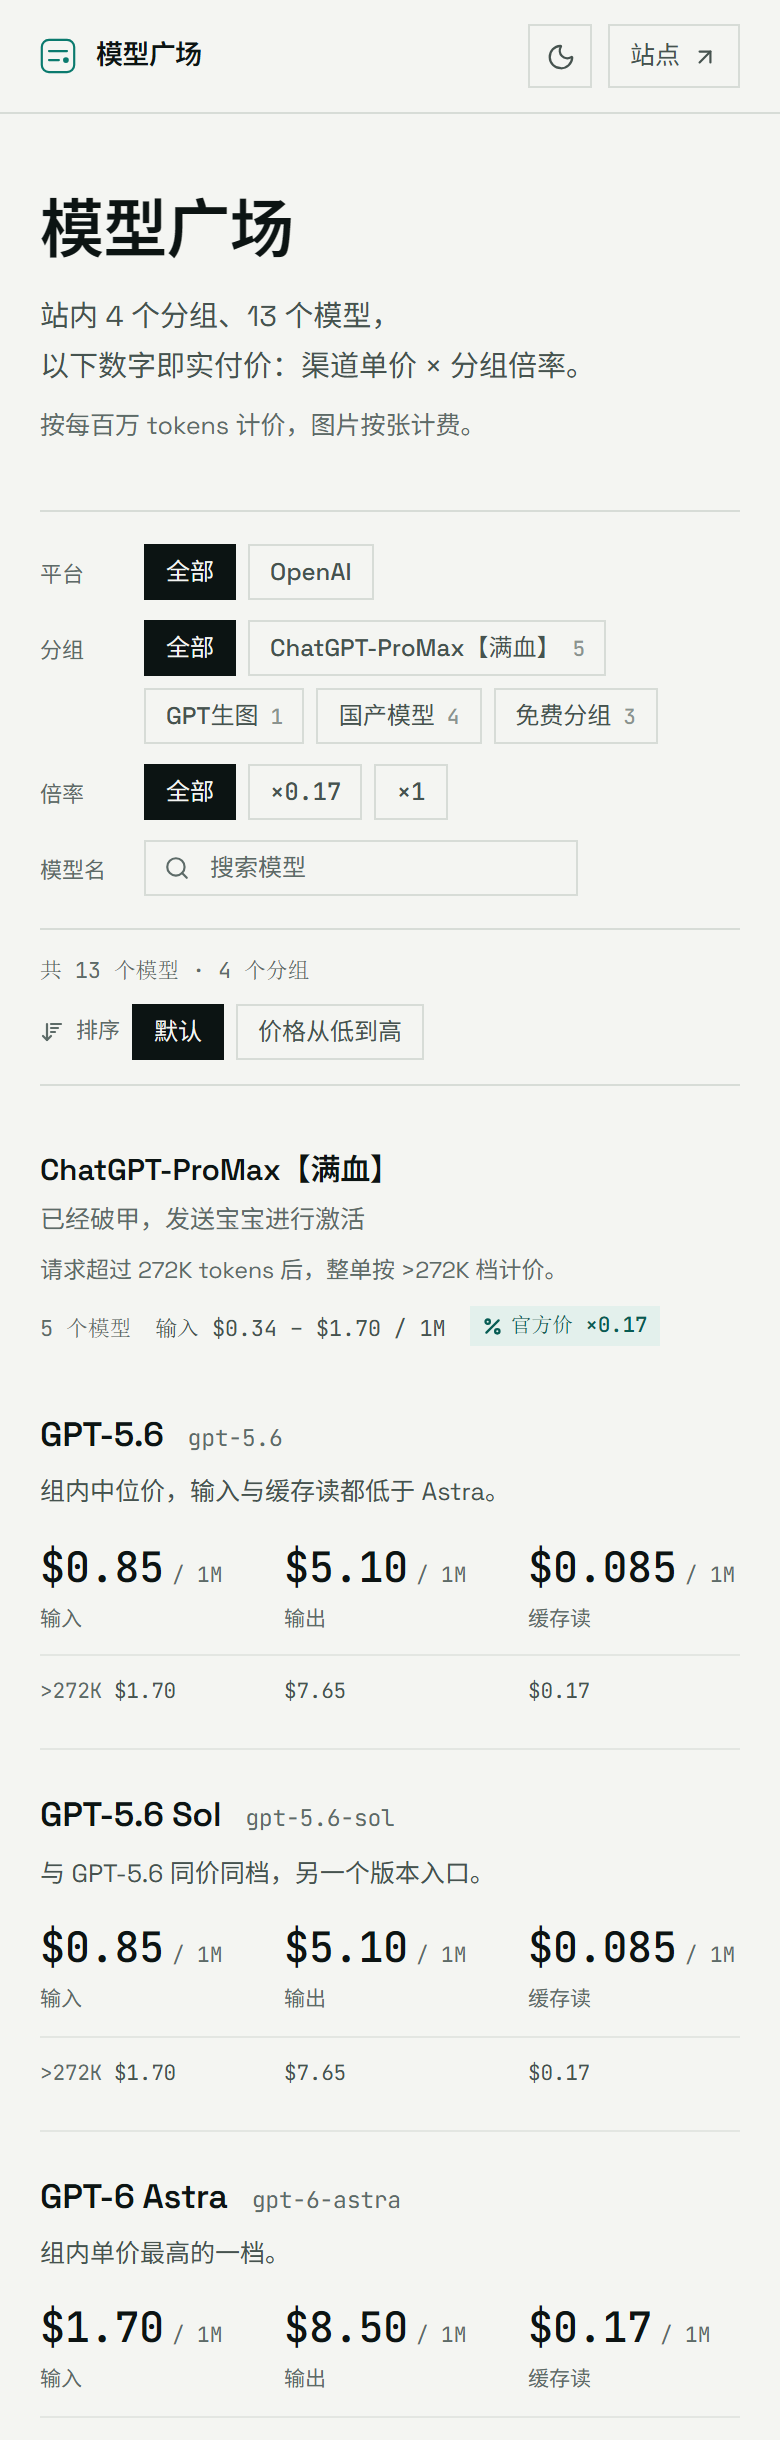
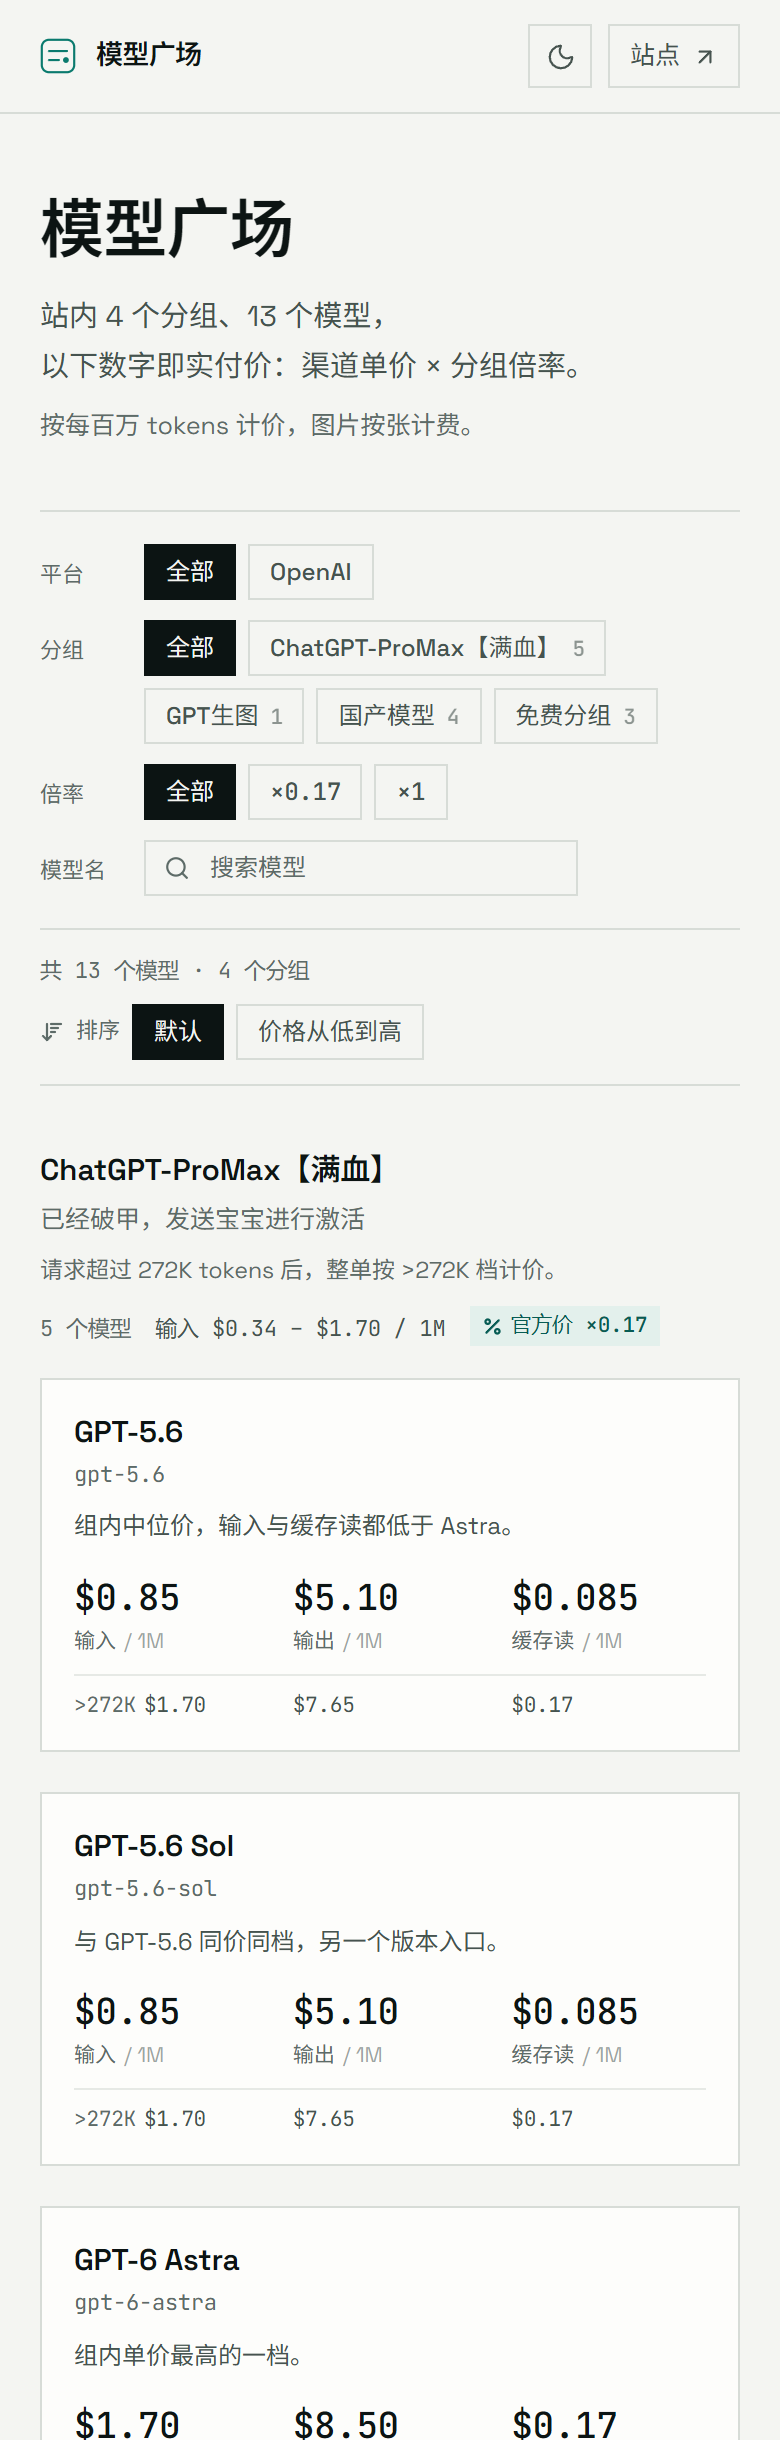
feat(plaza): set each model as a card, three to a row
The list read as one column of rows: with thirteen models a reader
scanning for the cheapest output price had to walk the whole page. Cards
put three models side by side, so a row can be compared without moving.

Each group keeps its own grid, so a group whose model count is not a
multiple of three leaves empty cells at the end of its last row. Letting
cards flow across group boundaries would fill them, but it would also put
two groups on one row, and the rate badge in the header — which applies to
a whole group — would no longer be clear about which cards it covers.

The card is a sheet of the same stock, not a floating panel: square, 1px
rule, no shadow, no gradient. The price block is pushed to the bottom so
that in a row the figures share one baseline and the tier rules land at
one height.

The unit moves from the figure to the label line (`输入 / 1M`, not
`$0.85 / 1M`): a column on a 336px card is only ~93px, and `$0.085 / 1M`
does not fit. The free group gains the same unit, which it had lost once
the unit left the figure.

Figures drop from 26px to 18px (names 15px): at three to a row the old
size overflowed the column, and the name now has to carry its own weight
as the thing you look for first.

diff --git a/src/components/ModelCard.tsx b/src/components/ModelCard.tsx
@@ -1,0 +1,92 @@
+import type { PriceBlock } from '../lib/pricing'
+import { priceBlock } from '../lib/pricing'
+import type { PlazaGroup, PlazaModel } from '../data/catalog'
+
+/**
+ * The figures of one model: numbers on the first line, their labels underneath,
+ * the long-context tier on a third line behind a hairline. All three lines share
+ * one column template, so a figure always sits above its own label and the tier
+ * figure under the column it belongs to.
+ *
+ * The unit rides with the label rather than the figure (`输入 / 1M`, not
+ * `$0.85 / 1M`). On a 336px card a column is only ~93px, and `$0.085 / 1M`
+ * does not fit in one; moving it down also leaves the top line purely numeric,
+ * which is the line the eye scans when comparing cards.
+ */
+function PriceGrid({ block, free }: { block: PriceBlock; free: boolean }) {
+  const { cells, subLabel, subs } = block
+  if (cells.length === 0) return null
+
+  const columns = { gridTemplateColumns: `repeat(${cells.length}, minmax(0, 1fr))` }
+
+  return (
+    <div>
+      <div className="grid gap-x-3 gap-y-1.5" style={columns}>
+        {cells.map((cell) => (
+          <div
+            key={cell.label}
+            className={`num text-[18px] leading-none font-medium xl:text-[19px] ${
+              free ? 'text-accent-ink' : 'text-ink'
+            }`}
+          >
+            {cell.value}
+          </div>
+        ))}
+
+        {cells.map((cell) => (
+          <div
+            key={`${cell.label}-label`}
+            className="text-[10.5px] leading-tight whitespace-nowrap text-ink-3"
+          >
+            {cell.label}
+            {cell.unit ? <span className="ml-1 text-ink-3/60">{cell.unit}</span> : null}
+          </div>
+        ))}
+      </div>
+
+      {subs ? (
+        <div className="mt-2.5 grid gap-x-3 border-t border-rule/60 pt-2" style={columns}>
+          {subs.map((value, index) => (
+            <div
+              key={`sub-${index}`}
+              className="num text-[10.5px] leading-tight whitespace-nowrap text-ink-2"
+            >
+              {index === 0 && subLabel ? <span className="mr-1 text-ink-3">{subLabel}</span> : null}
+              {value}
+            </div>
+          ))}
+        </div>
+      ) : null}
+    </div>
+  )
+}
+
+/**
+ * One model as a card. The card is a sheet of paper, not a floating panel:
+ * square, 1px rule, no shadow and no gradient — the same hairline that divides
+ * rows elsewhere now draws the frame.
+ *
+ * The price block is pushed to the bottom (`mt-auto`) so that in a row of cards
+ * the figures share one baseline and the tier rules land at one height: the row
+ * reads as a single ruled table rather than as five unrelated boxes.
+ */
+export function ModelCard({ group, model }: { group: PlazaGroup; model: PlazaModel }) {
+  const block = priceBlock(model, group.rateMultiplier, group.kind)
+
+  return (
+    <article className="flex h-full flex-col border border-rule bg-sheet p-4 transition-colors hover:border-rule-strong">
+      <h3 className="text-[15px] leading-snug font-semibold tracking-[-0.01em] text-ink">
+        {model.label}
+      </h3>
+      <p className="num mt-0.5 text-[11px] leading-relaxed break-all text-ink-3">{model.name}</p>
+
+      {model.note ? (
+        <p className="mt-2 text-[12px] leading-relaxed text-ink-2">{model.note}</p>
+      ) : null}
+
+      <div className="mt-auto pt-4">
+        <PriceGrid block={block} free={group.kind === 'free'} />
+      </div>
+    </article>
+  )
+}

diff --git a/src/components/GroupSection.tsx b/src/components/GroupSection.tsx
@@ -1,7 +1,7 @@
 import { Percent } from 'lucide-react'
 import type { PlazaGroup } from '../data/catalog'
 import { priceRange, rateLabel } from '../lib/pricing'
-import { ModelBlock } from './ModelBlock'
+import { ModelCard } from './ModelCard'
 
 /**
  * One group of models. The header sticks under the top bar from small screens
@@ -10,13 +10,20 @@ import { ModelBlock } from './ModelBlock'
  * carries answers "what does this group cost" without scrolling back up. On a
  * phone the description wraps tall enough that a pinned header would eat the
  * viewport, so it scrolls normally there.
+ *
+ * The models below it are cards, three to a row on a desktop. Each group keeps
+ * its own grid, so a group whose model count is not a multiple of three leaves
+ * empty cells at the end of its last row. Letting cards flow across group
+ * boundaries would fill those cells, but it would also put two groups on one
+ * row, and the rate badge in the header — which applies to a whole group —
+ * would no longer be clear about which cards it covers.
  */
 export function GroupSection({ group }: { group: PlazaGroup }) {
   const showRate = group.rateVerified && group.rateMultiplier !== 1
 
   return (
     <section id={`g${group.id}`} className="border-t border-rule">
-      <header className="flex flex-wrap items-baseline justify-between gap-x-6 gap-y-2 bg-paper pt-8 pb-3 sm:sticky sm:top-14 sm:z-10">
+      <header className="flex flex-wrap items-baseline justify-between gap-x-6 gap-y-2 bg-paper pt-8 pb-4 sm:sticky sm:top-14 sm:z-10">
         <div className="min-w-0">
           <h2 className="text-[15px] font-semibold tracking-[-0.006em] text-ink">{group.name}</h2>
           {group.description ? (
@@ -43,9 +50,9 @@ export function GroupSection({ group }: { group: PlazaGroup }) {
         </div>
       </header>
 
-      <div className="divide-y divide-rule/60">
+      <div className="grid gap-x-6 gap-y-5 sm:grid-cols-2 lg:grid-cols-3">
         {group.models.map((model) => (
-          <ModelBlock key={model.name} group={group} model={model} />
+          <ModelCard key={model.name} group={group} model={model} />
         ))}
       </div>
     </section>

diff --git a/src/lib/pricing.ts b/src/lib/pricing.ts
@@ -73,8 +73,12 @@ export function priceBlock(model: PlazaModel, rate: number, kind: GroupKind): Pr
 
   if (kind === 'free') {
     // Three cells rather than one wide "免费": the row keeps the same rhythm as
-    // every other block, and the three labels say what is being zeroed.
-    return { cells: ['输入', '输出', '缓存读'].map((label) => ({ value: '$0', label })) }
+    // every other block, and the three labels say what is being zeroed. The
+    // unit is carried too, so a free card reads like a chat card with the
+    // figures taken out rather than like a differently built card.
+    return {
+      cells: ['输入', '输出', '缓存读'].map((label) => ({ value: '$0', unit: '/ 1M', label })),
+    }
   }
 
   if (kind === 'image') {

diff --git a/src/index.css b/src/index.css
@@ -1,9 +1,11 @@
 /* ------------------------------------------------------------------ *
- * Model plaza — a printed tariff sheet, not a card wall.
+ * Model plaza — a printed tariff sheet, one card per model.
  *
  * Palette is paper + ink with a single teal accent, used only where it
  * carries meaning (a verified rate, a free model, a link). No gradients,
  * anywhere, and no decorative shadow: separation comes from hairline rules.
+ * A card is a sheet of the same stock — square, rule-framed, sitting flat on
+ * the paper — so the grid reads as a ruled table, not as a wall of panels.
  * ------------------------------------------------------------------ */
 
 @import 'tailwindcss';

diff --git a/HANDOFF.md b/HANDOFF.md
@@ -61,8 +61,8 @@ npm run fonts     # 改过中文文案后重跑（见第 7 节）
 │     ├─ Hero.tsx          h1 + 两行说明
 │     ├─ FilterBar.tsx     四行分面（平台/分组/倍率/模型名）
 │     ├─ ListToolbar.tsx   「共 N 个模型」+ 排序开关
-│     ├─ GroupSection.tsx  分组头（吸顶）+ 模型列表
-│     ├─ ModelBlock.tsx    单个模型：名字/slug/说明/三带价格
+│     ├─ GroupSection.tsx  分组头（吸顶）+ 3 列卡片网格
+│     ├─ ModelCard.tsx     单个模型一张卡：名字/slug/说明/三带价格
 │     ├─ Footer.tsx        计价口径说明 + 更新日期 + 返回站点
 │     └─ Mark.tsx          20×20 内联 SVG 标记
 ├─ scripts/subset-font.py  ★ 中文字体子集流水线
@@ -153,8 +153,8 @@ npm run fonts     # 改过中文文案后重跑（见第 7 节）
 ### 分档为什么单独一行
 
 组 16 是 `whole_request` 计费：超过 272K 后整单按高价档。所以页面把首档当主数字、
-`>272K` 档放在下面一条带发丝线的子行。**不要**把两档塞进同一列——那会把该列的标签
-顶下去，三列标签就错位了，整页的横向扫描就断了。
+`>272K` 档放在卡片底部一条带发丝线的子行，档位标记只印一次。**不要**把两档塞进同一列——
+那会把该列的标签顶下去，三列标签就错位了，一行卡片的横向扫描就断了。
 
 ### 免费分组为什么是三个 `$0`
 
@@ -169,6 +169,8 @@ npm run fonts     # 改过中文文案后重跑（见第 7 节）
 
 **报价单 / 制图版**：纸 + 墨 + 单一 teal 强调色。零渐变、零阴影、零玻璃拟态、零 emoji。
 分隔只用 1px 发丝线。图标一律 `lucide-react`，示意图形用手写内联 SVG。
+模型用直角发丝线卡片承载——卡片是同一张纸上的另一张纸（`bg-sheet` 压在 `bg-paper` 上），
+不是浮起来的应用面板：没有圆角、没有阴影、没有半透明填充。
 
 ### 令牌（`src/index.css`，浅色 / 深色）
 
@@ -197,16 +199,27 @@ npm run fonts     # 改过中文文案后重跑（见第 7 节）
   - 只含页面实际用到的汉字（185 个），用 `unicode-range` 限在 CJK 区段
 - **必须两个字重**：只声明 600 会让所有中文正文比旁边的西文 400 更粗
 
-### 版式三条硬规则
+### 版式四条硬规则
 
-1. **数字比模型名大**（26px vs 17px）：一页十几个模型，读者是来比价的
-2. **三列共用一个 grid**：所有区块的标签、第二行数字落在同一条基线上（实测列 x 恒为 192/480/768）
-3. **三列总宽锁 52rem（832px）**：铺满容器每列之间会空出 300px 以上，读不成一行
+1. **数字比模型名大**（18px vs 15px）：一页十几个模型，读者是来比价的
+2. **卡内三列共用一个 grid**：数字、标签、分档三行落在同一套列上，数字永远在自己标签的正上方
+3. **价格沉底**（`mt-auto`）：同一行卡片的数字共用一条基线、分档线落在同一高度，一排卡片读起来是一张横格表
+4. **单位跟着标签走**（`输入 / 1M`，不是 `$0.85 / 1M`）：336px 卡片每列只有 93px，数字后面挂单位会溢出；挪走之后数字行是纯数字，跨卡片对齐
+
+### 卡片
+
+一张卡 = 一张纸：`bg-sheet` + 1px `border-rule`，直角、无阴影、无渐变，hover 只把描边提到
+`border-rule-strong`。卡与卡 `gap-x-6 gap-y-5`。**每组各自一个网格**，所以模型数不是 3 的倍数时
+末行右侧留空位（13 个模型共 5 个空位）；让卡片跨组流动能填满，但会把两个分组排进一行，
+组头那个「×0.17」徽章就说不清覆盖哪几张卡了。
+
+实测卡片尺寸：1440 → 336px、1024 → 304px、640 → 276px、390 → 350px（单列）。
 
 ### 响应式
 
 - 组头 `sm` 以上吸顶（`sm:sticky sm:top-14`），手机不吸顶——390px 下组头换行到 114px，会吃掉视口
-- 手机价格仍是三列（`text-[21px]`），不做折叠
+- 卡片：`<sm` 1 列 / `sm` 2 列 / `lg` 3 列；卡内价格始终三列，不折叠
+- 640px（2 列最窄处）实测列宽 73px，`$0.085` 与 `>272K $1.70` 都不裁切
 
 ---
 

diff --git a/README.md b/README.md
@@ -42,16 +42,21 @@ Sub2API 站的模型价目表。**价格全部硬编码在 `src/data/catalog.ts`
 挂着的信息就是「这是哪个分组」。手机上组头说明会换行到 100px 以上，吸住会吃掉视口，
 所以小屏让它正常滚走。
 
-组内每个模型一个横区块：模型名（展示名 + mono slug）→ 一行说明 → 价格。
+组内每个模型一张卡片，三列排布（`sm` 两列、`lg` 三列）：模型名 → mono slug → 一行说明 → 价格。
 
-**三、价格**。固定三列（输入 / 输出 / 缓存读；生图是 1K/2K/4K 三个档位），
-数字用等宽字体、**比模型名更大**（26px vs 17px）——一页十几个模型，读者是来比价的，
-数字当主角、名字当注脚。三列共用一个 `grid`，所以每一列的标签、第二行数字在整页所有
-区块里都落在同一条基线上，视线可以笔直往下扫。三列总宽限制在 832px：铺满容器的
-话每列之间会空出 300px 以上，读不成一行。
+卡片是 `bg-sheet` 压在 `bg-paper` 上的另一张纸：直角、1px 发丝线描边、无阴影无渐变。
+它不是浮起来的应用面板，而是同一张报价单上的一格。每个分组各自一个网格，
+所以模型数不是 3 的倍数时末行右侧留空位。
 
-分档模型（`long_context_pricing_enabled`）把 `>272K` 档放进**独立的一行**，而不是塞进
-单个数字下面：塞进去会让那一列的标签被顶下去，三列标签就错位了。这一行的档位标记只印一次。
+**三、价格**。卡内固定三列（输入 / 输出 / 缓存读；生图是 1K/2K/4K 三个档位），
+数字用等宽字体、**比模型名更大**（18px vs 15px）——一页十几个模型，读者是来比价的，
+数字当主角、名字当注脚。数字 / 标签 / 分档三行共用一套列，数字永远在自己标签的正上方。
+价格块用 `mt-auto` 沉到卡片底部：同一行卡片的数字因此共用一条基线、分档线落在同一高度，
+一排卡片读起来是一张横格表。单位跟着标签走（`输入 / 1M`，不是 `$0.85 / 1M`）——
+336px 的卡片每列只有 93px，数字后面再挂个单位会溢出。
+
+分档模型（`long_context_pricing_enabled`）把 `>272K` 档放在卡片底部**独立的一行**，而不是塞进
+单个数字下面：塞进去会让那一列的标签被顶下去，三列标签就错位了。档位标记只印一次。
 
 中文段落用了 `break-keep`：默认的中文断行会把「每百万」拆成「每百 / 万」两行。
 
